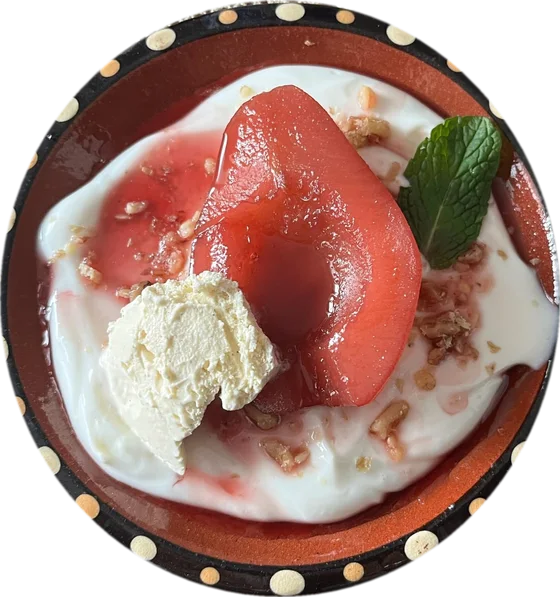
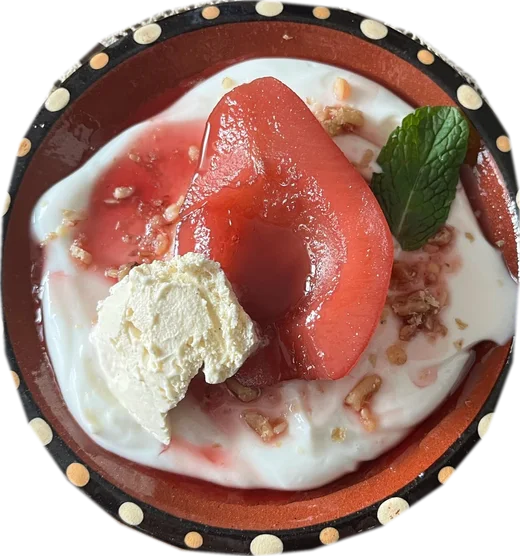
Interests collage: tighter cut-outs, scattered dishes, smaller figure
Plates are now cut along hand-traced rim outlines (instead of ovals) and
inset slightly, the figure mask is eroded more, dishes are scattered at
varied angles around the panel, and the pastel figure is smaller.

diff --git a/app/globals.css b/app/globals.css
@@ -388,18 +388,19 @@ body {
 
 /* ---------- interests page collage (components/site/interests-collage.tsx) ---------- */
 .icollage .ic-cut { position: absolute; z-index: 1; height: auto; filter: drop-shadow(3px 5px 0 rgba(0, 0, 0, .35)); pointer-events: none; }
-.icollage .ic-figure { right: 10%; bottom: 2%; height: 72%; width: auto; }
-.icollage .ic-trout { left: 4%; top: 3%; width: 31%; transform: rotate(-6deg); }
-.icollage .ic-pear { left: 44%; top: 3%; width: 24%; transform: rotate(5deg); }
-.icollage .ic-ragu { left: 9%; top: 26%; width: 31%; transform: rotate(4deg); }
-.icollage .ic-curry { left: 3%; top: 49%; width: 31%; transform: rotate(-4deg); }
-.icollage .ic-steak { left: 9%; top: 71%; width: 29%; transform: rotate(6deg); }
+/* dishes scattered around a smaller figure */
+.icollage .ic-figure { right: 13%; bottom: 4%; height: 56%; width: auto; }
+.icollage .ic-trout { left: 3%; top: 4%; width: 30%; transform: rotate(-8deg); }
+.icollage .ic-pear { left: 54%; top: 6%; width: 22%; transform: rotate(9deg); }
+.icollage .ic-ragu { left: 27%; top: 25%; width: 27%; transform: rotate(5deg); }
+.icollage .ic-curry { left: 2%; top: 49%; width: 28%; transform: rotate(-5deg); }
+.icollage .ic-steak { left: 21%; top: 73%; width: 26%; transform: rotate(11deg); }
 @media (max-width: 1023px) {
-  .icollage .ic-figure { right: auto; left: 50%; bottom: 0; height: 90%; transform: translateX(-50%); }
-  .icollage .ic-trout { left: 2%; top: 6%; width: 27%; }
-  .icollage .ic-ragu { left: 3%; top: 50%; width: 27%; }
-  .icollage .ic-pear { left: auto; right: 6%; top: 5%; width: 21%; }
-  .icollage .ic-curry { left: auto; right: 2%; top: 50%; width: 27%; }
+  .icollage .ic-figure { right: auto; left: 50%; bottom: 0; height: 76%; transform: translateX(-50%); }
+  .icollage .ic-trout { left: 1%; top: 4%; width: 25%; }
+  .icollage .ic-ragu { left: 3%; top: 54%; width: 23%; }
+  .icollage .ic-pear { left: auto; right: 5%; top: 4%; width: 19%; }
+  .icollage .ic-curry { left: auto; right: 1%; top: 52%; width: 25%; }
   .icollage .ic-steak { display: none; }
   .icollage .tag { display: none; }
 }

diff --git a/components/site/interests-collage.tsx b/components/site/interests-collage.tsx
@@ -33,19 +33,19 @@ export function InterestsCollage() {
       ))}
       <img className="ic-cut ic-figure" src="/images/collage/art6-figure.webp" alt="Figure from oil pastel Untitled 6" decoding="async" />
 
-      <a className="tag hot" href="#cooking" style={{ top: "27%", left: "4%" }}>
+      <a className="tag hot" href="#cooking" style={{ top: "23%", left: "31%" }}>
         Cooking
       </a>
-      <a className="tag" href="#art" style={{ top: "30%", left: "70%" }}>
+      <a className="tag" href="#art" style={{ top: "40%", left: "73%" }}>
         Art
       </a>
-      <a className="tag desk-only" href="#photography" style={{ top: "90%", left: "60%" }}>
+      <a className="tag desk-only" href="#photography" style={{ top: "92%", left: "58%" }}>
         Photography
       </a>
-      <a className="tag desk-only" href="#music" style={{ top: "66%", left: "36%" }}>
+      <a className="tag desk-only" href="#music" style={{ top: "47%", left: "33%" }}>
         Music
       </a>
-      <Link className="tag" href="/" style={{ top: "20%", left: "70%" }}>
+      <Link className="tag" href="/" style={{ top: "28%", left: "75%" }}>
         ← Portfolio
       </Link>
       <LogoStrip num="27" />
